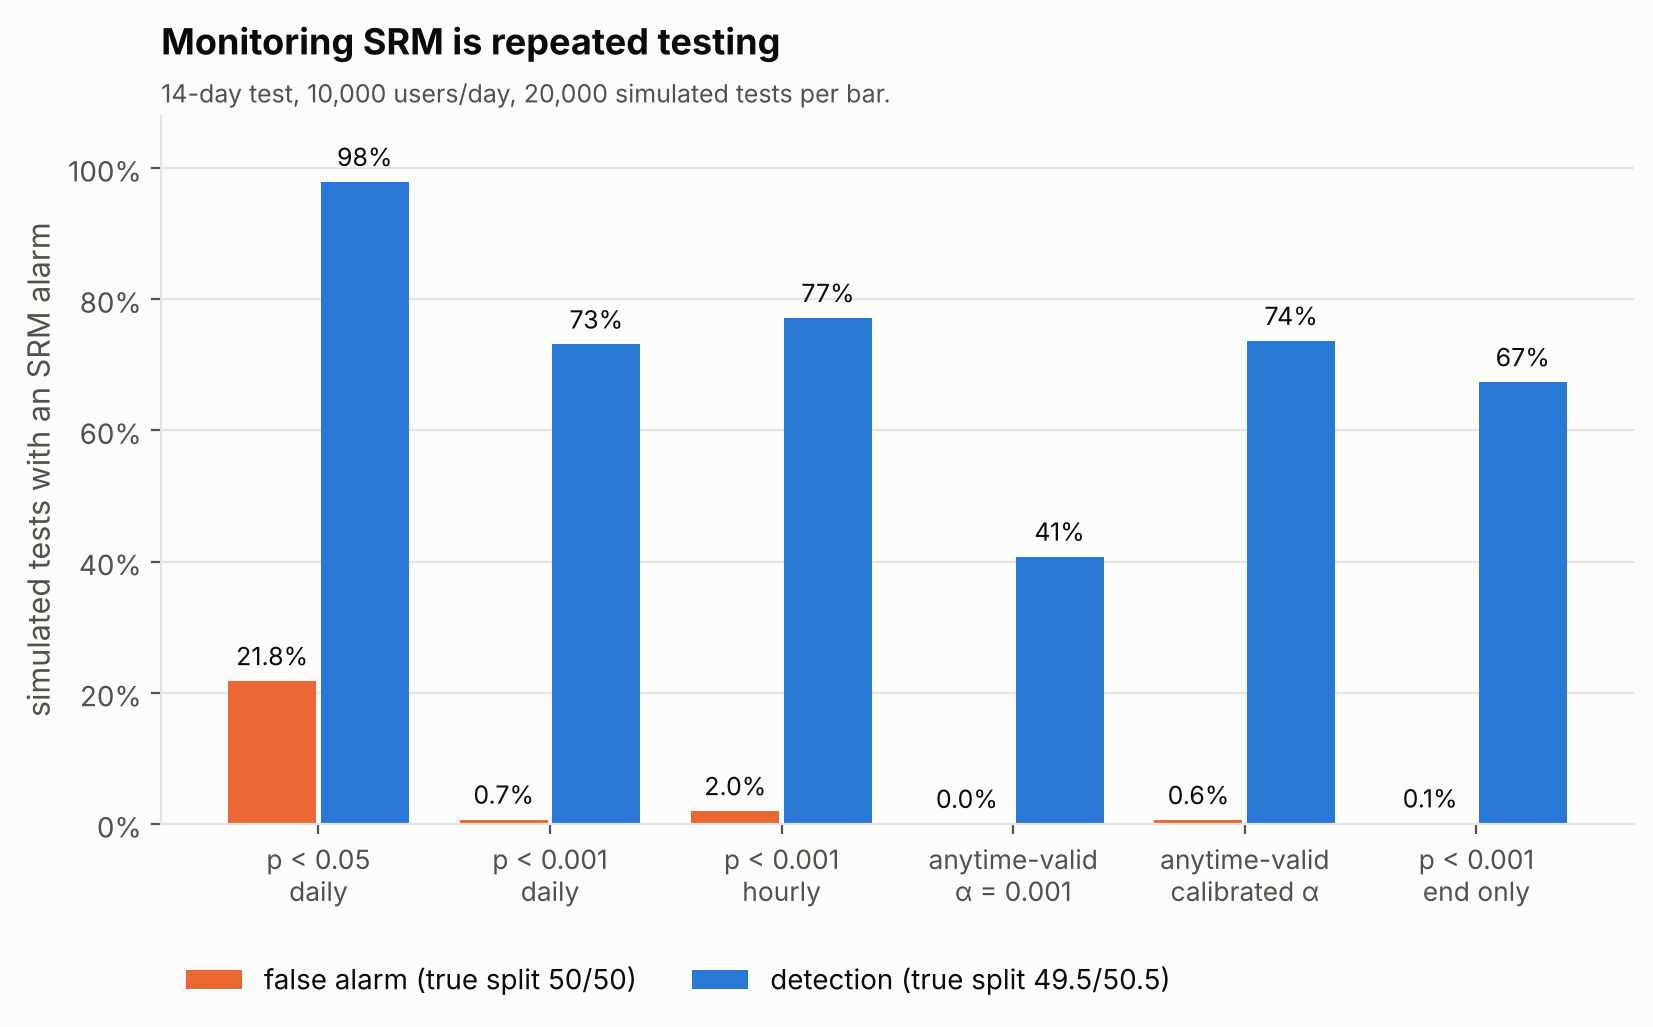
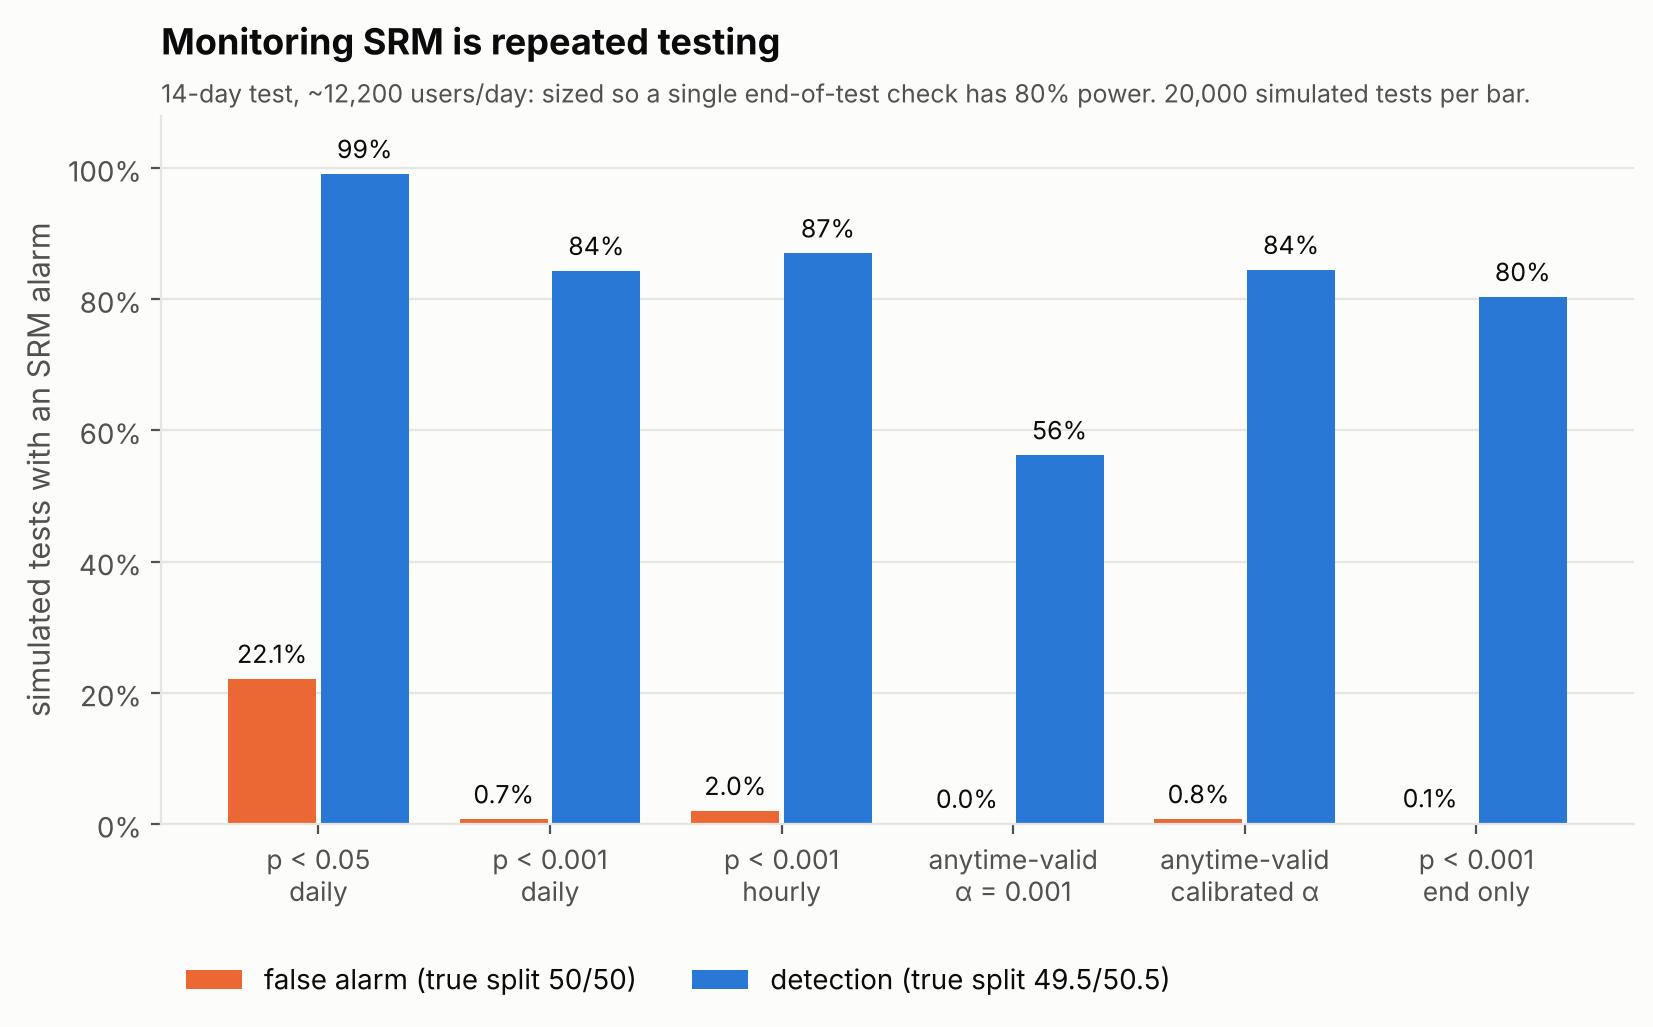
Update randomization post: resized SRM simulation, live A/A instead of replays
The SRM monitoring figure and its numbers now use a test sized for 80%
power at the end. The platform section recommends a live A/A test
through the real platform instead of A/A replays.

diff --git a/_posts/2026-10-16-how-to-validate-your-randomization.md b/_posts/2026-10-16-how-to-validate-your-randomization.md
@@ -54,27 +54,22 @@ Two practical consequences. First, **check the exposure layer directly instead o
 
 Most platforms recompute SRM every day. That's a repeated significance test, and everything we know about peeking applies to it.
 
-![Monitoring SRM is repeated testing: false alarm and detection rates per monitoring rule. p < 0.05 daily: 21.8% false alarms, 98% detection. p < 0.001 daily: 0.7%, 73%. p < 0.001 hourly: 2.0%, 77%. Anytime-valid at α = 0.001: 0.0%, 41%. Anytime-valid with calibrated α: 0.6%, 74%. p < 0.001 at the end only: 0.1%, 67%.](/images/posts/srm-monitoring.png)
-*14-day test, 10,000 users per day, 20,000 simulated tests per rule. Orange: false alarms when the split is truly 50/50. Blue: detection when it's 49.5/50.5.*
+![Monitoring SRM is repeated testing: false alarm and detection rates per monitoring rule. p < 0.05 daily: 22.1% false alarms, 99% detection. p < 0.001 daily: 0.7%, 84%. p < 0.001 hourly: 2.0%, 87%. Anytime-valid at α = 0.001: 0.0%, 56%. Anytime-valid with calibrated α: 0.8%, 84%. p < 0.001 at the end only: 0.1%, 80%.](/images/posts/srm-monitoring.png)
+*14-day test with ~12,200 users per day, sized so that a single check at the end has the textbook 80% power against a 49.5/50.5 split. 20,000 simulated tests per rule. Orange: false alarms when the split is truly 50/50. Blue: detection when it's 49.5/50.5.*
 
-Check SRM daily at α = 0.05, and about one healthy test in five raises a false alarm (21.8%). A strict threshold fixes most of it: 14 daily looks at p < 0.001 can't exceed 1.4% false alarms by a plain union bound, and in practice give 0.7%, while still catching a half-point SRM 73% of the time.
+The rightmost pair is the reference: one chi-square check at the end of the test, 0.1% false alarms and 80% power. Check SRM daily at α = 0.05 instead, and about one healthy test in five raises a false alarm (22%). A strict threshold fixes most of it: 14 daily looks at p < 0.001 can't exceed 1.4% false alarms by a plain union bound, give 0.7% in practice, and catch the half-point SRM 84% of the time, slightly more than the single end-of-test check, because daily looks give it more chances.
 
-What about anytime-valid inference, the textbook fix for peeking? At the same nominal α = 0.001 it looks weak: 41% detection. But that comparison is unfair. Ville's inequality, which gives these methods their guarantee, is conservative, and the realized false alarm rate is around 0.01%. Calibrate the anytime-valid test to the same realized false alarm rate as daily chi-square, and the gap disappears: 74% detection, and slightly earlier, because it can look every hour. The catch is that a calibrated threshold is only guaranteed for the traffic, horizon and look schedule it was calibrated on.
+What about anytime-valid inference, the textbook fix for peeking? At the same nominal α = 0.001 it looks weak: 56% detection, well below the 80% reference. But that comparison is unfair. Ville's inequality, which gives these methods their guarantee, is conservative, and the realized false alarm rate is around 0.03%. Calibrate the anytime-valid test to the same realized false alarm rate as daily chi-square, and the gap disappears: 84% detection, and about a day earlier, because it can look every hour. The catch is that a calibrated threshold is only guaranteed for the traffic, horizon and look schedule it was calibrated on.
 
 So the honest conclusion is boring. If you look once a day, a strict fixed threshold is simple and just as good. Anytime-valid methods earn their keep when you monitor continuously and need a guarantee that holds whenever you look. What doesn't work is the default most people start with: α = 0.05, checked every morning.
 
 ## Validating the platform itself
 
-Everything above validates individual experiments. The platform needs its own checks, and they come in two kinds.
+Everything above validates individual experiments. The assignment machinery underneath needs its own checks, run once and again after every change to it.
 
-**Offline checks on assignment.** Push a few hundred thousand synthetic IDs through your hashing function and check three things: buckets come out uniform, assignment is deterministic, and two different experiments assign independently. Each check exists because each catches a bug the others miss. A modulo-bias bug (two hex digits mod 100) gives a 58.5/41.5 split and fails uniformity, but it's perfectly deterministic and independent. A shared-salt bug, where every experiment splits users identically, passes uniformity and determinism and only fails the independence check. Two "independent" experiments that are perfectly correlated are not independent.
+Push a few hundred thousand synthetic IDs through your hashing function and check three things: buckets come out uniform, assignment is deterministic, and two different experiments assign independently. Each check exists because each catches a bug the others miss. A modulo-bias bug (two hex digits mod 100) gives a 58.5/41.5 split and fails uniformity, but it's perfectly deterministic and independent. A shared-salt bug, where every experiment splits users identically, passes uniformity and determinism and only fails the independence check. Two "independent" experiments that are perfectly correlated are not independent.
 
-**A/A replays on historical data.** Instead of one live A/A test, take historical data, draw a few hundred random splits, and push each through your actual analysis code. The share of significant results should sit within binomial noise around α, and the p-values should be uniform.
-
-![500 A/A replays on the same data: p-value histograms. Unit-level analysis is flat, with p < 0.05 in 5% of replays; session-level analysis piles up near zero, with p < 0.05 in 42% of replays.](/images/posts/aa-replay-pvalues.png)
-*500 A/A replays on the same session-level data. Left: aggregate to the user first. Right: treat every session as independent.*
-
-Same data, two analyses. Aggregating to the randomization unit gives a 5% false positive rate. Treating sessions as independent gives 42%. A single live A/A test would most likely have passed either one.
+Then run a live A/A test through the real platform, end to end. It won't tell you much about statistical calibration (that's one draw, as we saw at the start), but it exercises the parts that offline tests can't: real clients, real logging, real joins. Run every check from this post on it. Whether your analysis code itself is calibrated is a different question, and it belongs to the next level of the pyramid.
 
 ## From signals to decisions
 
@@ -109,7 +104,7 @@ About 1% of healthy experiments get blocked. That's the price of running around 
 
 If you automate nothing else, automate this:
 
-1. Validate the platform once and after every change: hash uniformity, determinism, independence, and an A/A replay through your real analysis code.
+1. Validate the assignment machinery once and after every change: hash uniformity, determinism, independence, plus a live A/A test through the real platform.
 2. SRM on every test at p < 0.001, or an anytime-valid version if you look continuously.
 3. Exposure/assignment ratio per variant, overall and within the segments where logging is known to break.
 4. A count of units that appear in more than one variant.
